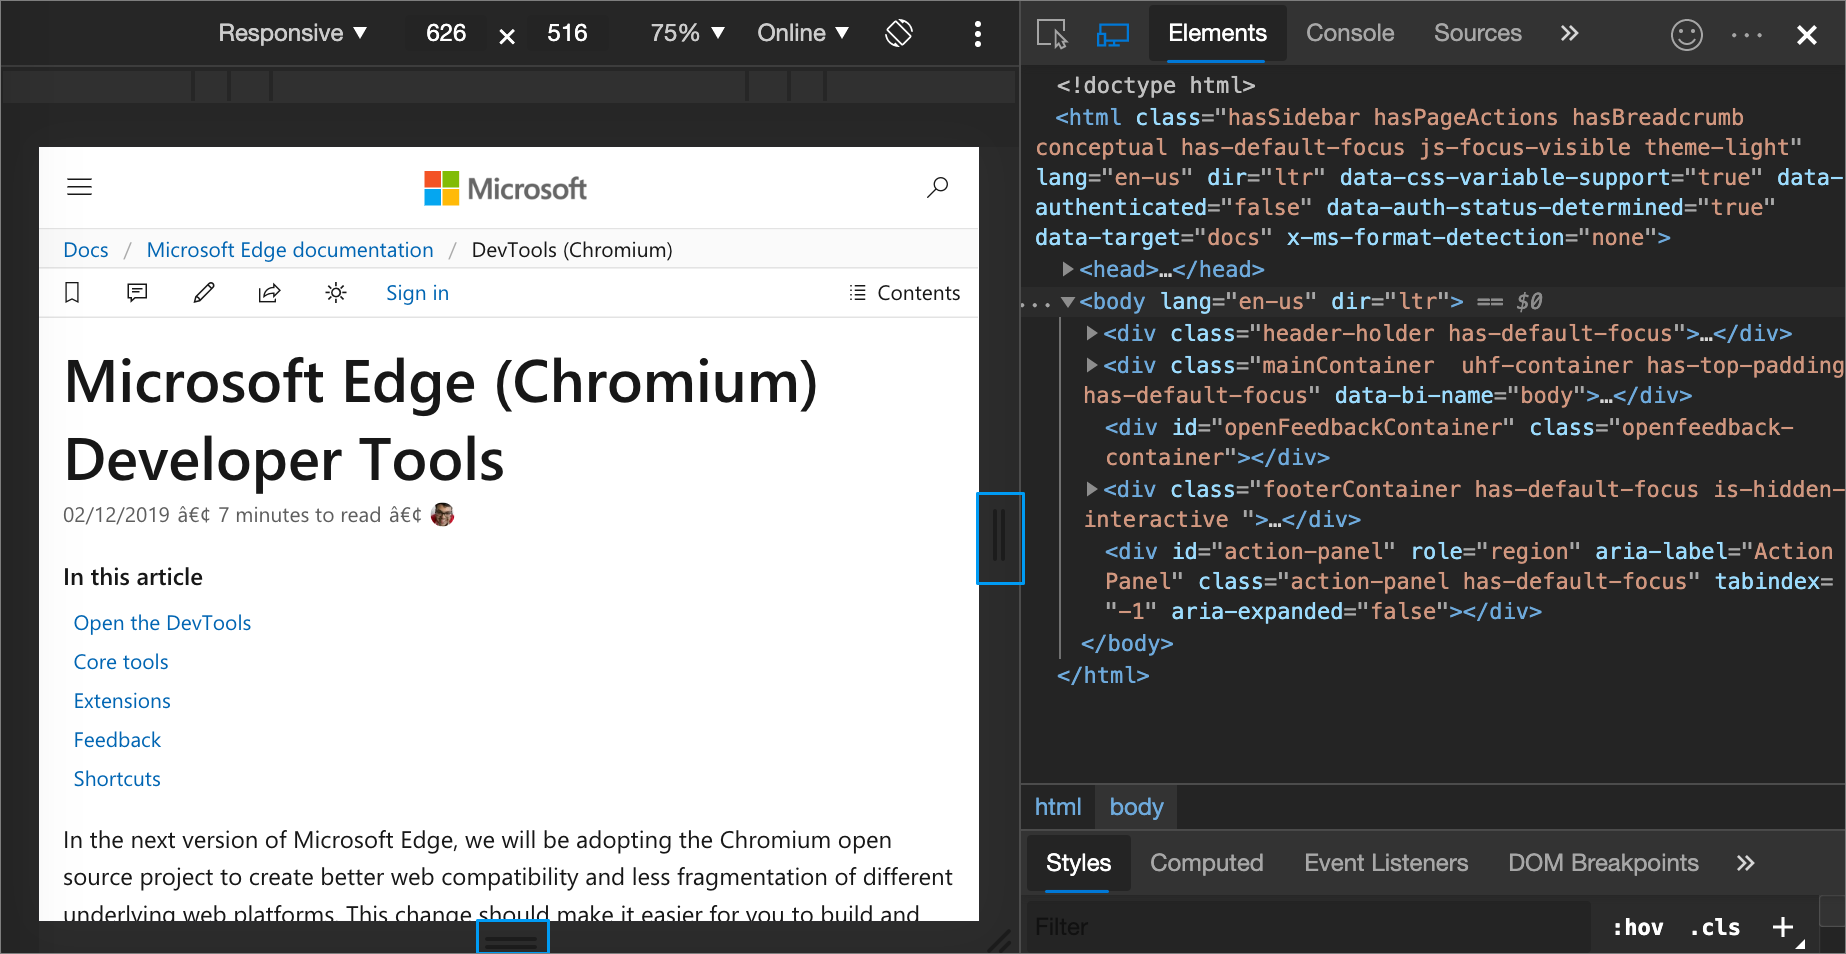
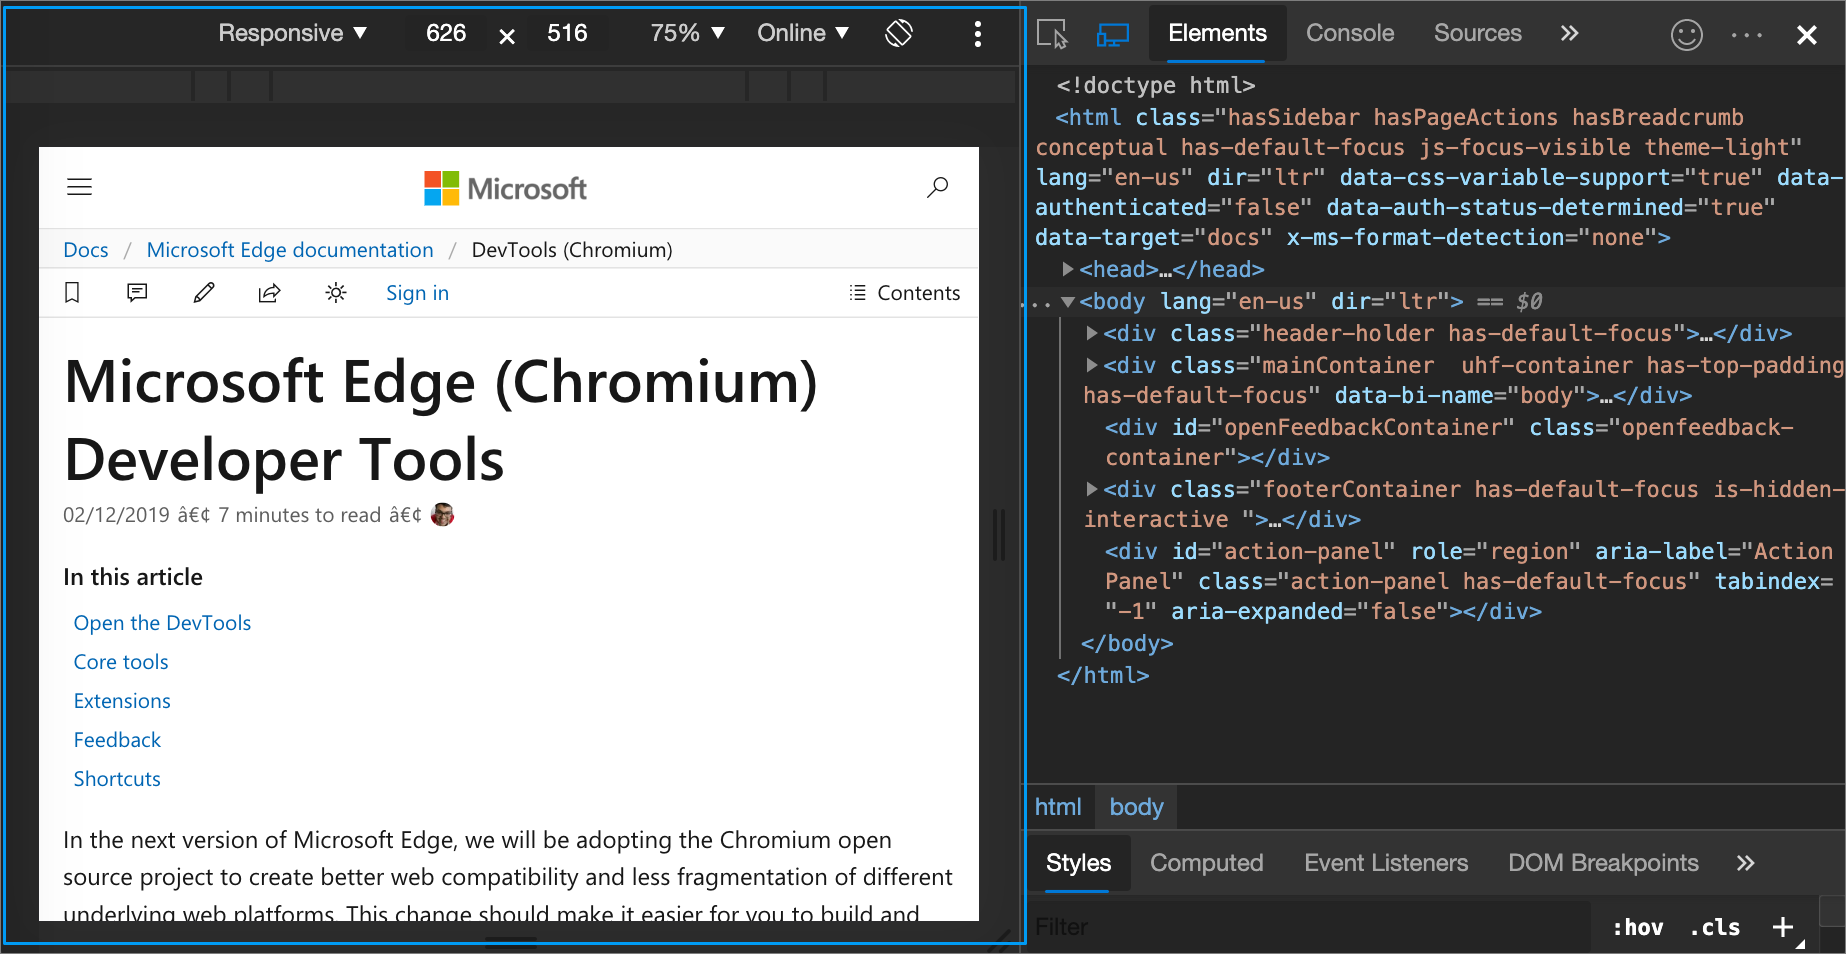
commit from WebFundamentals

Changed region(s): [[0.0, 0.9727, 0.5558, 1.0], [0.0, 0.0, 0.5558, 0.0304], [0.5249, 0.5168, 0.5558, 0.6384]]

diff --git a/microsoft-edge/devtools-guide-chromium/device-mode/index.md b/microsoft-edge/devtools-guide-chromium/device-mode/index.md
@@ -2,7 +2,7 @@
 title: Simulate Mobile Devices with Device Mode in Microsoft Edge DevTools
 author: MSEdgeTeam
 ms.author: msedgedevrel
-ms.date: 10/30/2019
+ms.date: 10/31/2019
 ms.topic: article
 ms.prod: microsoft-edge
 keywords: microsoft edge, web development, f12 tools, devtools
@@ -57,7 +57,7 @@ By default the Device Toolbar opens in Responsive Viewport Mode.
 
 ### Responsive Viewport Mode   
 
-Drag the handles to resize the viewport to whatever dimensions you need.  Or, enter specific values in the width and height boxes.  In [Figure 2](#figure-2), the width is set to `628` and the height is set to `662`.  
+Drag the handles to resize the viewport to whatever dimensions you need.  Or, enter specific values in the width and height boxes.  In [Figure 2](#figure-2), the width is set to `626` and the height is set to `516`.  
 
 > ##### Figure 2  
 > The handles for changing the dimensions of the viewport when in Responsive Viewport Mode  
@@ -275,7 +275,7 @@ Select one of the presets from the **Orientation** list or select **Custom orien
 [ImageDeviceToolbarIcon]: images/toggle-device-toolbar-dark-icon.msft.png  
 [ImageRotateIcon]: images/rotate-dark-icon.msft.png  
 
-[ImageDeviceToolbar]: images/toggle-device-toolbar.msft.png "Figure 1: The Device Toolbar"  
+[ImageDeviceToolbar]: images/toggle-device-toolbar-highlighted.msft.png "Figure 1: The Device Toolbar"  
 [ImageResponsiveHandles]: images/toggle-device-toolbar-handles-highlighted.msft.png "Figure 2: The handles for changing the dimensions of the viewport when in Responsive Viewport Mode"  
 [ImageShowMediaQueries]: images/toggle-device-toolbar-more-options-show-media-queries.msft.png "Figure 3: Show media queries"  
 [ImageBreakpoint]: images/toggle-device-toolbar-click-breakpoint.msft.png "Figure 4: Click a breakpoint to change the width of the viewport"  
@@ -291,7 +291,7 @@ Select one of the presets from the **Orientation** list or select **Custom orien
 [ImageRulers]: images/toggle-device-toolbar-rulers.msft.png "Figure 14: Rulers above and to the left of the viewport"  
 [ImageZoomViewport]: images/toggle-device-toolbar-zoom.msft.png "Figure 15: Zoom"  
 [ImageThrottling]: images/toggle-device-toolbar-throttle.msft.png "Figure 16: The Throttle list"  
-[ImageDeviceToolbar3]: images/toggle-device-toolbar.msft.png "Figure 17: The Device Toolbar"  
+[ImageDeviceToolbar3]: images/toggle-device-toolbar-highlighted.msft.png "Figure 17: The Device Toolbar"  
 [ImageCPU]: images/performance-cpu-throttle.msft.png "Figure 18: The CPU list"  
 [ImageNetwork]: images/network-throttle.msft.png "Figure 19: The Throttle list"  
 [ImageCommandMenu]: images/command-menu-throttle.msft.png "Figure 20: The Command Menu"  
